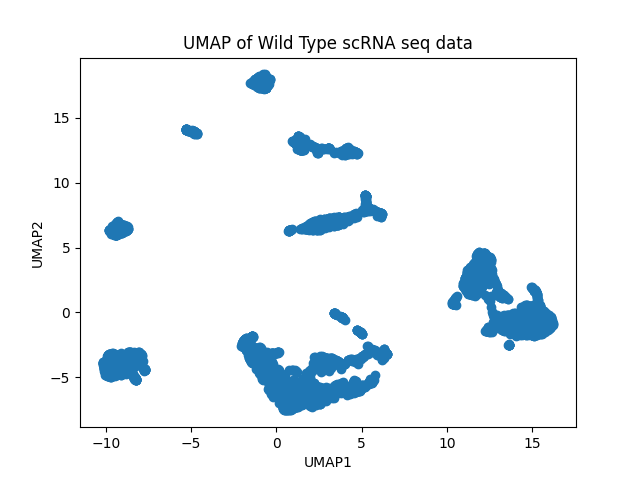
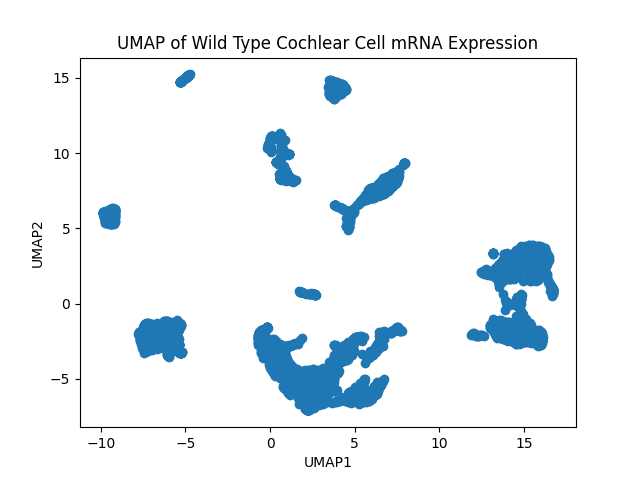
updating UMAP figure title

diff --git a/src/vis/UMAP.py b/src/vis/UMAP.py
@@ -40,7 +40,7 @@ def plot_UMAP(vargenes, PCA_dim = 10, data = "Wild Type"):
     
     ax.set_ylabel('UMAP2')
     ax.set_xlabel('UMAP1')
-    ax.set_title(f'UMAP of {data} scRNA seq data')
+    ax.set_title(f'UMAP of {data} Cochlear Cell mRNA Expression')
     fig.savefig('fig/UMAP.png')
 
 
